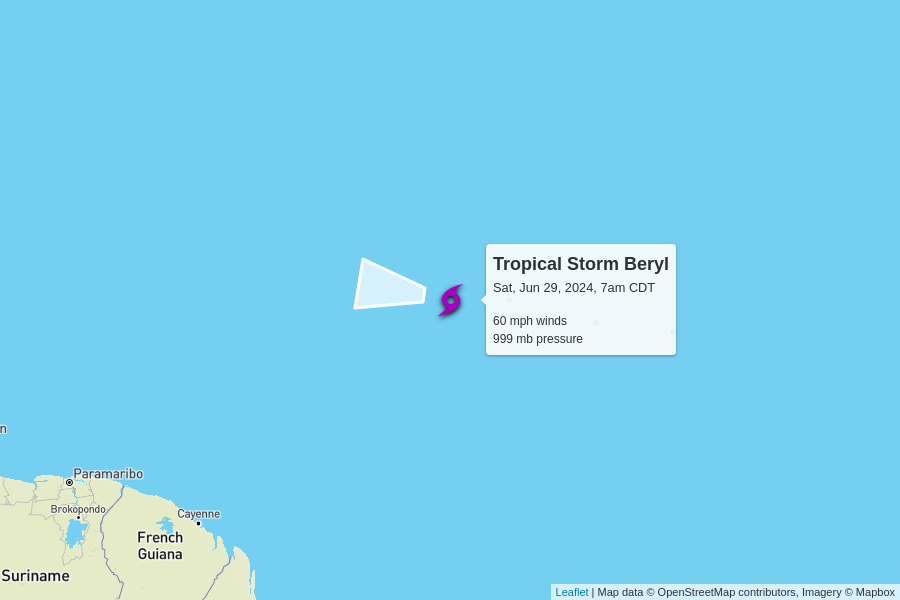
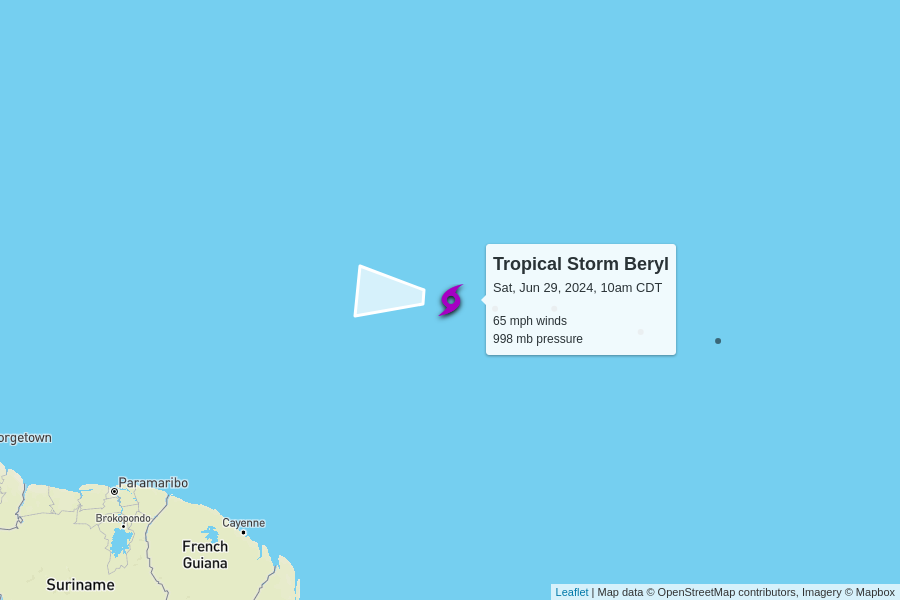
automatic update

diff --git a/docs/index.html b/docs/index.html
@@ -102,7 +102,7 @@
         <td colspan="6" class="storm category-0" >
           <h2>
             Tropical Storm Beryl
-            <p class="updated">last updated <span data-time>2024-06-29T12:00:00.000Z</span></p>
+            <p class="updated">last updated <span data-time>2024-06-29T15:00:00.000Z</span></p>
           </h2>
         </td>
       </tr>
@@ -117,12 +117,12 @@
       </tr>
       <tr>
         <td class="spacer"></td>
-        <td>60 mph<br>+10 mph since last update</td>
-        <td>999 mb<br>-2 mb since last update</td>
+        <td>65 mph<br>+5 mph since last update</td>
+        <td>998 mb<br>-1 mb since last update</td>
         <td>
-          21 mph to the west
+          23 mph to the west
           <br/>
-          <span style="display: inline-block; font-size: 1.5em; transform: rotate(280deg);">↑</span>
+          <span style="display: inline-block; font-size: 1.5em; transform: rotate(275deg);">↑</span>
         </td>
         <td><a href="https://raw.githubusercontent.com/mgwalker/atlantic-hurricanes/main/data/csv/AL022024.csv">AL022024.csv</a></td>
         <td><a href="https://www.nhc.noaa.gov/archive/2024/BERYL.shtml?">NHC advisories</a></td>
